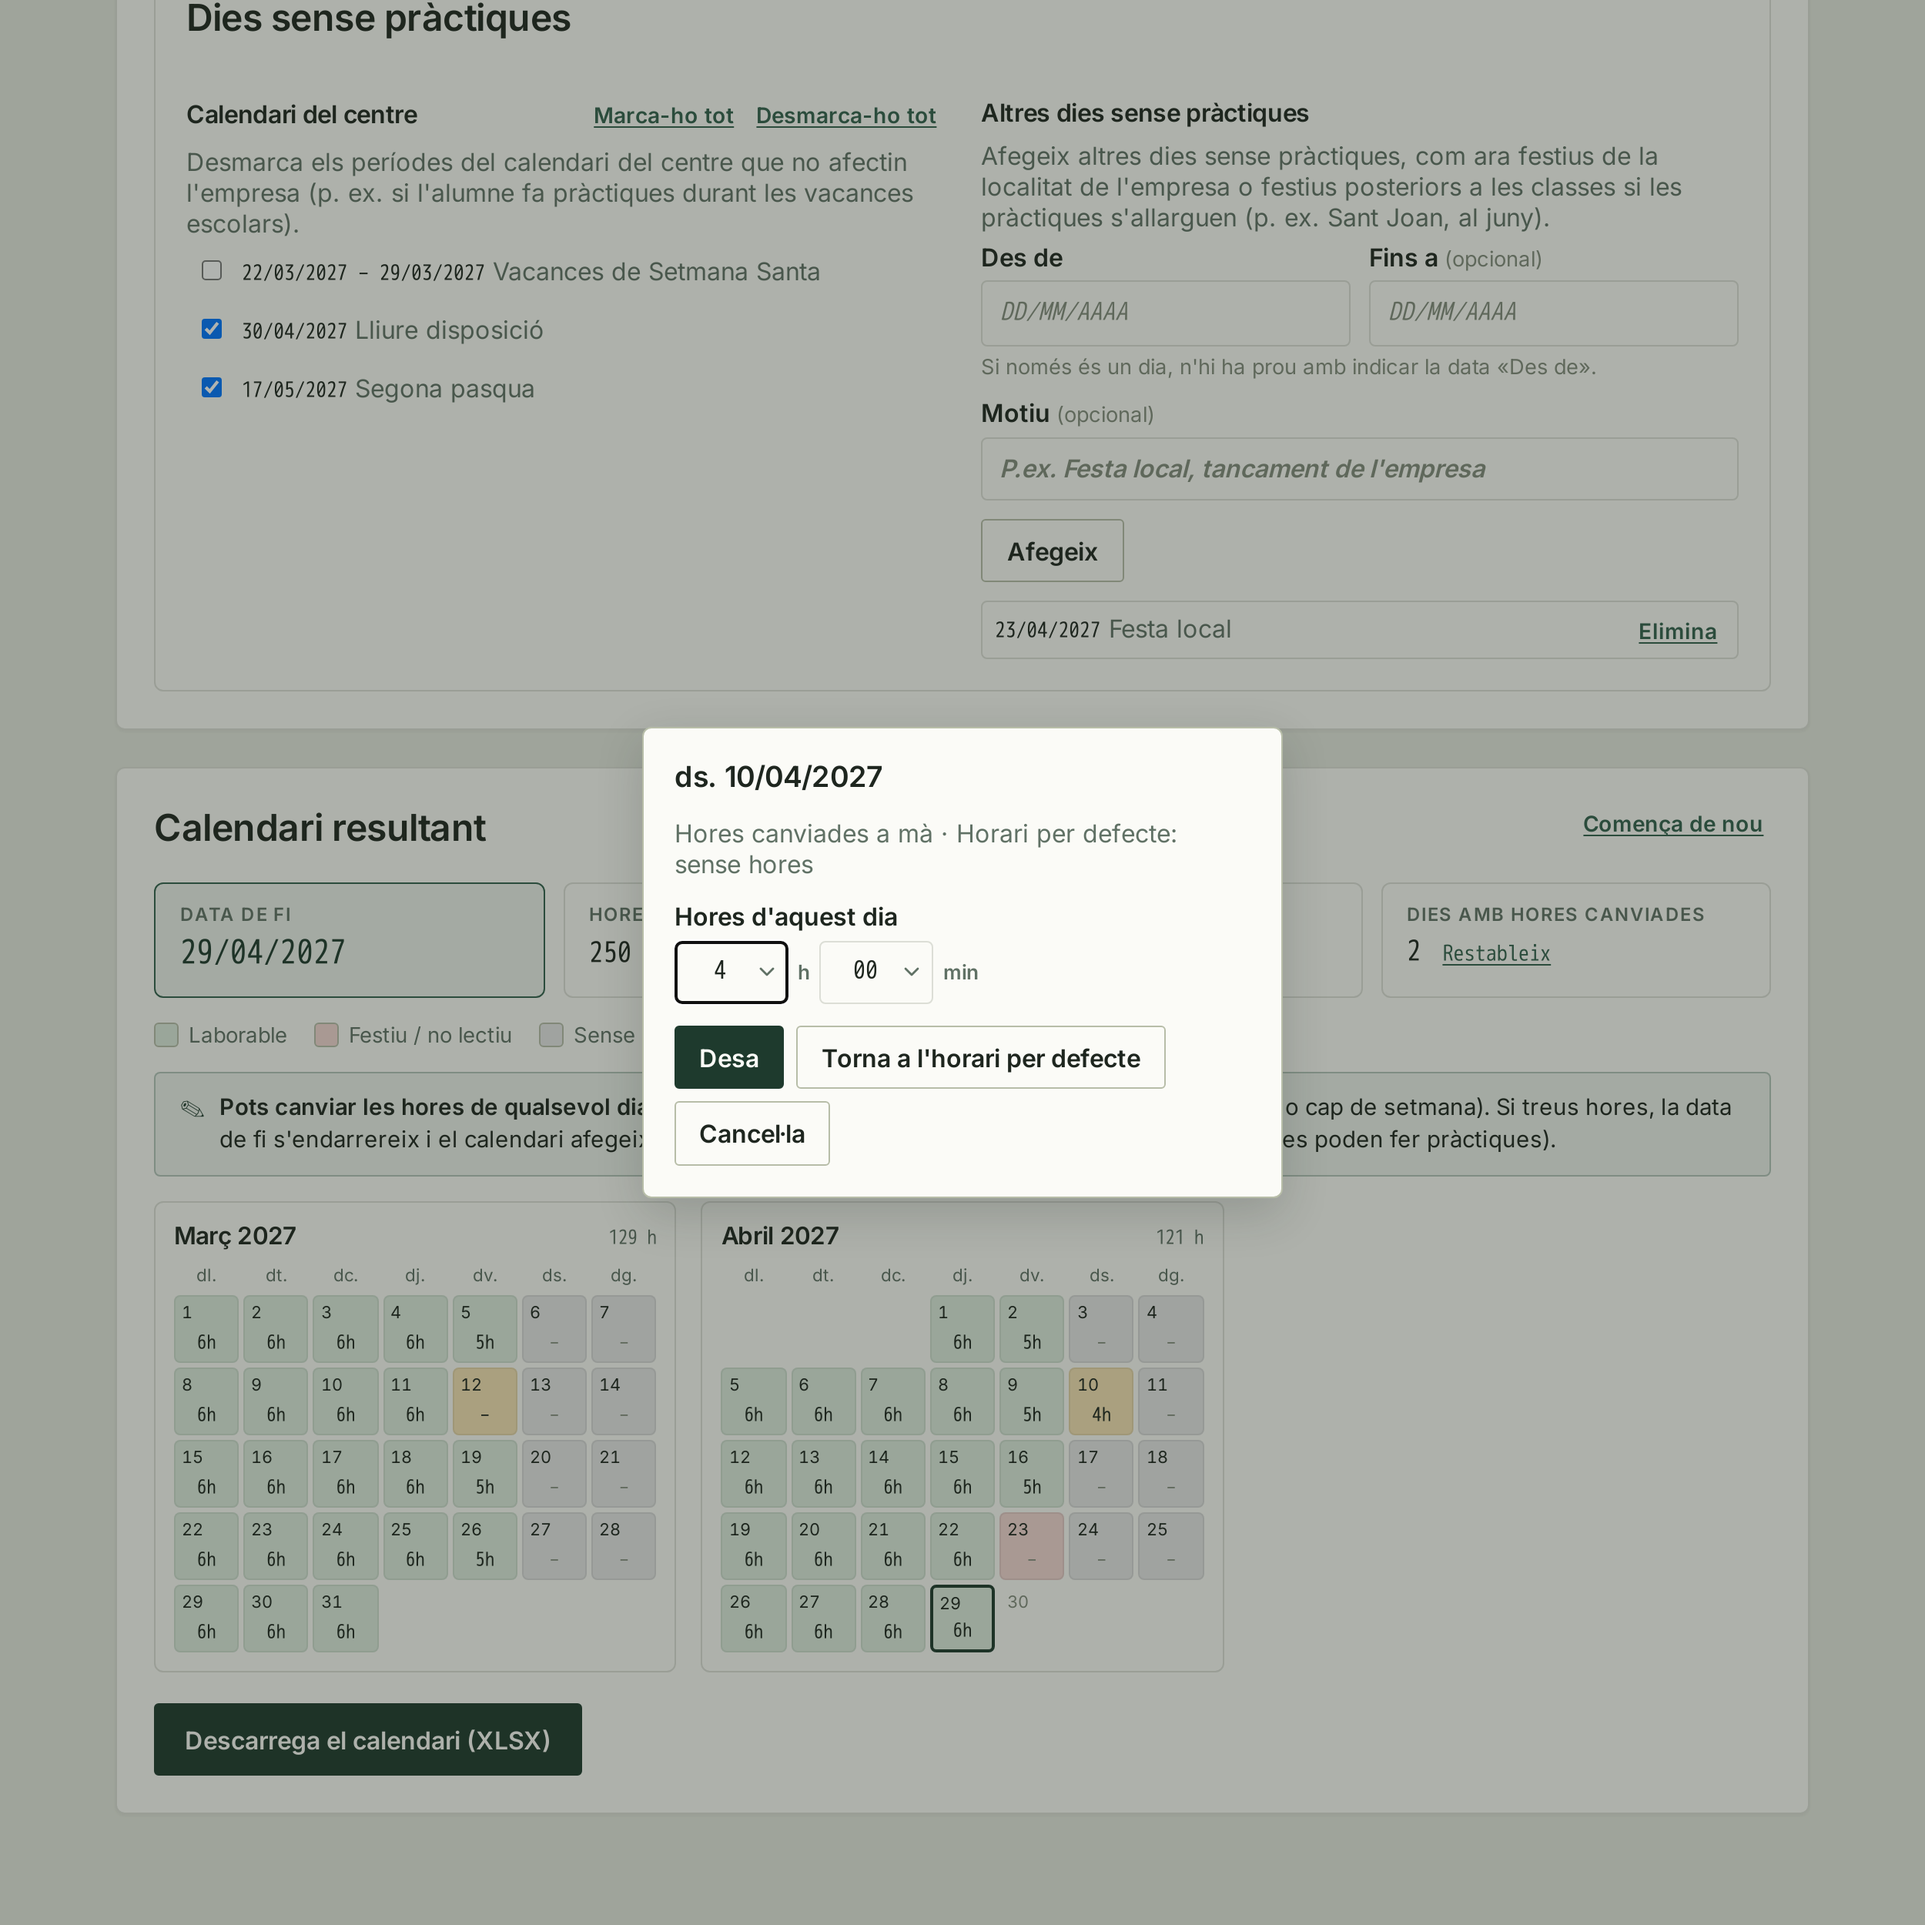
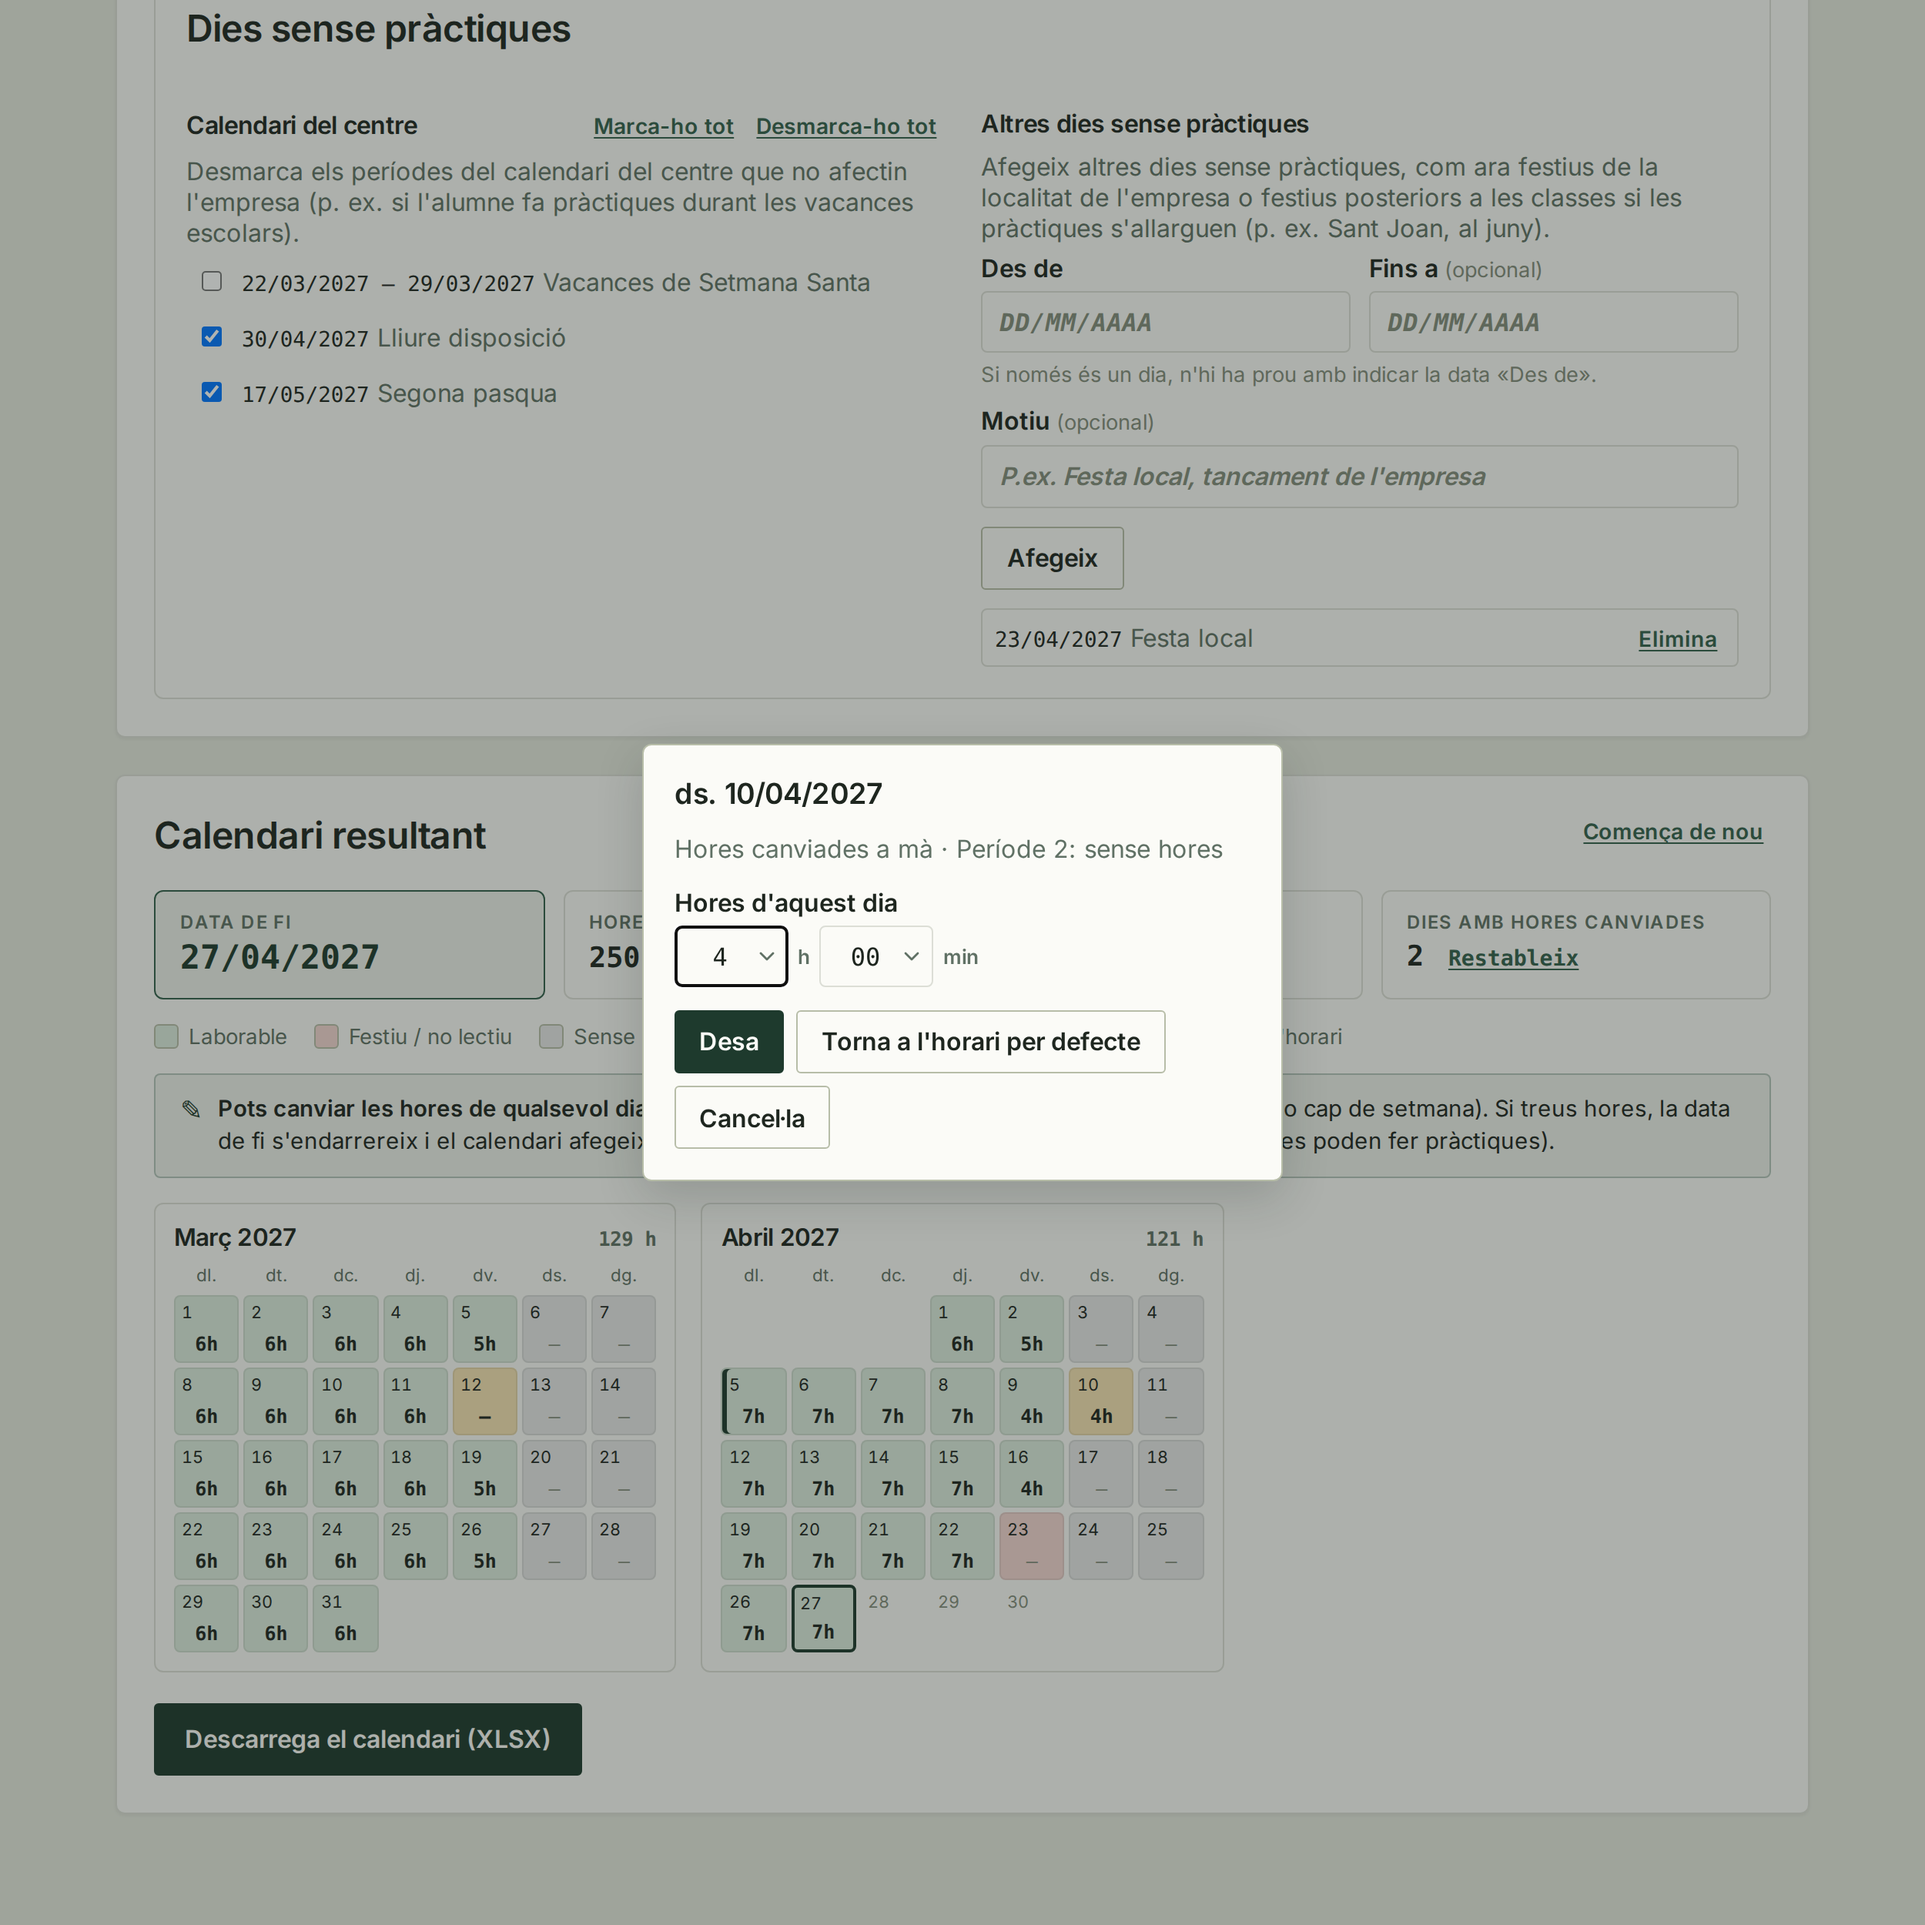
docs: describe internship periods and retake the planner screenshots
Both READMEs mention per-period schedules, the missing-holidays warning in
"Dies sense pràctiques", the period marker on the calendar and the
per-period Configuració sheet. The screenshots show two periods.

diff --git a/README.md b/README.md
@@ -46,7 +46,7 @@ Tempo té dues eines, accessibles des de la capçalera de l'aplicació.
 
 **[Planificador d'hores de pràctiques](#planificador-dhores-de-pràctiques)** (`/practiques`)
 
-- calcular la data de fi de les pràctiques d'un estudiant a partir de la data d'inici, les hores totals i l'horari setmanal
+- calcular la data de fi de les pràctiques d'un estudiant a partir de la data d'inici, les hores totals i l'horari setmanal, que pot canviar d'un període a un altre del conveni
 - descomptar els dies sense pràctiques del calendari del centre i afegir-ne d'altres
 - ajustar les hores de qualsevol dia directament al calendari
 - exportar-lo en un XLSX editable que es recalcula sol
@@ -97,7 +97,7 @@ Indica la data d'inici, les hores totals (amb minuts) i les hores de cada dia de
 
 ### 2. Revisa els dies sense pràctiques i el calendari
 
-Els períodes del calendari del centre surten marcats i es poden desmarcar si no afecten l'empresa (p. ex. pràctiques durant les vacances escolars). També s'hi poden afegir altres dies, com festius locals de l'empresa o festius posteriors a les classes. El calendari es recalcula en directe i mostra la data de fi, les hores planificades i els dies amb pràctiques; el darrer dia només rep les hores que falten.
+Els períodes del calendari del centre surten marcats i es poden desmarcar si no afecten l'empresa (p. ex. pràctiques durant les vacances escolars). També s'hi poden afegir altres dies, com festius locals de l'empresa o festius posteriors a les classes. Si les pràctiques van més enllà dels dies no lectius configurats al calendari del centre, un avís en aquesta mateixa secció recorda afegir-hi els festius posteriors. El calendari es recalcula en directe i mostra la data de fi, les hores planificades i els dies amb pràctiques; el darrer dia només rep les hores que falten. Quan hi ha diversos períodes, el primer dia de cadascun queda marcat al calendari.
 
 ![Dies sense pràctiques i calendari resultant amb la data de fi](docs/screenshots/tempo-practiques-step-2-calendari.png)
 
@@ -116,7 +116,7 @@ A l'agost no es poden fer pràctiques, així que el calendari no passa mai del 3
 - **Totals en format `4h30`:** setmanes, mesos, hores planificades i hores restants es recalculen en editar qualsevol dia, igual que la data de fi.
 - **Colors automàtics:** els dies amb hores es mostren en verd i els dies sense pràctiques (`0`, que es mostra com `-`) en vermell. «Hores planificades» i «Hores restants» es marquen en vermell mentre no s'arriba a l'objectiu.
 - **Instruccions** a la cantonada superior dreta i **protecció del full** sense contrasenya: només es poden editar les hores dels dies reals i les dades de la capçalera.
-- Els fulls **Detall** (un dia per fila amb acumulat i hores restants) i **Configuració** (horari i dies sense pràctiques aplicats) completen el llibre.
+- Els fulls **Detall** (un dia per fila amb acumulat i hores restants) i **Configuració** (l'horari de cada període amb les seves dates i els dies sense pràctiques aplicats) completen el llibre.
 
 ## Actius visuals
 
@@ -187,7 +187,7 @@ bash scripts/deploy_preview.sh
 - `/` mostra el formulari inicial de configuració del mòdul
 - `/plan` permet ordenar, repartir i validar els RAs abans d'exportar
 - l'exportació final es fa cap a un llibre XLSX
-- `/practiques` calcula el calendari de pràctiques a partir de la data d'inici, les hores totals i l'horari setmanal (amb minuts), reutilitza els períodes no lectius configurats, permet ajustar les hores de qualsevol dia i exporta un XLSX editable (vegeu [Planificador d'hores de pràctiques](#planificador-dhores-de-pràctiques))
+- `/practiques` calcula el calendari de pràctiques a partir de la data d'inici, les hores totals i l'horari setmanal (amb minuts i, si cal, diversos períodes amb horari propi), reutilitza els períodes no lectius configurats, permet ajustar les hores de qualsevol dia i exporta un XLSX editable (vegeu [Planificador d'hores de pràctiques](#planificador-dhores-de-pràctiques))
 
 ### Administració
 

diff --git a/README.en.md b/README.en.md
@@ -46,7 +46,7 @@ Tempo has two tools, both reachable from the app header.
 
 **[Internship Hours Planner](#internship-hours-planner)** (`/practiques`)
 
-- works out a student's internship end date from a start date, total hours and a weekly schedule
+- works out a student's internship end date from a start date, total hours and a weekly schedule, which can change between the agreement's periods
 - skips the school calendar's days without internship and lets users add others
 - lets users adjust any day's hours directly on the calendar
 - exports it as an editable XLSX that recalculates itself
@@ -97,7 +97,7 @@ Enter the start date, total hours (minutes supported) and the hours for each wee
 
 ### 2. Review Days Without Internship And The Calendar
 
-The school calendar's periods are pre-selected and can be unticked when they do not affect the company (e.g. an internship that runs through school holidays). Other days can be added too, such as the company's local holidays or holidays after classes end. The calendar recalculates live and shows the end date, planned hours and internship days; the last day only receives the hours still needed.
+The school calendar's periods are pre-selected and can be unticked when they do not affect the company (e.g. an internship that runs through school holidays). Other days can be added too, such as the company's local holidays or holidays after classes end. If the internship runs past the non-teaching days configured in the school calendar, a warning in this same section reminds users to add the later holidays. The calendar recalculates live and shows the end date, planned hours and internship days; the last day only receives the hours still needed. When there are several periods, the first day of each one is marked on the calendar.
 
 ![Days without internship and the resulting calendar with its end date](docs/screenshots/tempo-practiques-step-2-calendari.png)
 
@@ -116,7 +116,7 @@ Internships cannot run in August, so the calendar never goes past 31 July of the
 - **Totals as `4h30`:** weekly, monthly, planned and remaining hours recalculate when any day is edited, as does the end date.
 - **Automatic colours:** days with hours are green and days without internship (`0`, shown as `-`) are red. "Hores planificades" and "Hores restants" turn red until the target is met.
 - **Instructions** in the top right corner and **sheet protection** without a password: only real days' hours and the header details can be edited.
-- The **Detall** sheet (one day per row with running and remaining totals) and the **Configuració** sheet (schedule and applied days without internship) complete the workbook.
+- The **Detall** sheet (one day per row with running and remaining totals) and the **Configuració** sheet (each period's schedule with its dates, and the applied days without internship) complete the workbook.
 
 ## Visual Assets
 
@@ -187,7 +187,7 @@ bash scripts/deploy_preview.sh
 - `/` shows the initial module configuration form
 - `/plan` lets users sort, distribute, and validate learning outcomes before export
 - the final export is generated as an XLSX workbook
-- `/practiques` computes an internship calendar from a start date, total hours and a weekly schedule (minutes supported), reuses the configured non-teaching periods, lets users adjust any day's hours and exports an editable XLSX (see [Internship Hours Planner](#internship-hours-planner))
+- `/practiques` computes an internship calendar from a start date, total hours and a weekly schedule (minutes supported, with optional periods that each have their own schedule), reuses the configured non-teaching periods, lets users adjust any day's hours and exports an editable XLSX (see [Internship Hours Planner](#internship-hours-planner))
 
 ### Admin Flow
 

diff --git a/docs/screenshots/README.md b/docs/screenshots/README.md
@@ -19,7 +19,7 @@ The files in this folder document the two public tools. For the curriculum plann
 | `tempo-step-1-parallel.png` | Step 1: configure two parallel blocks | Supporting advanced-mode example |
 | `tempo-step-2-parallel.png` | Step 2: distribute RAs across parallel blocks | Supporting advanced-mode example |
 | `tempo-step-3-spreadsheet_2.png` | Result: secondary workbook view | Kept for detailed documentation |
-| `tempo-practiques-step-1-formulari.png` | Internship planner: start date, total hours and weekly schedule | Internship walkthrough |
+| `tempo-practiques-step-1-formulari.png` | Internship planner: start date, total hours and a weekly schedule split into two periods | Internship walkthrough |
 | `tempo-practiques-step-2-calendari.png` | Internship planner: days without internship and the resulting calendar | Internship walkthrough |
 | `tempo-practiques-step-3-editor-dia.png` | Internship planner: editing a single day's hours | Internship walkthrough |
 
